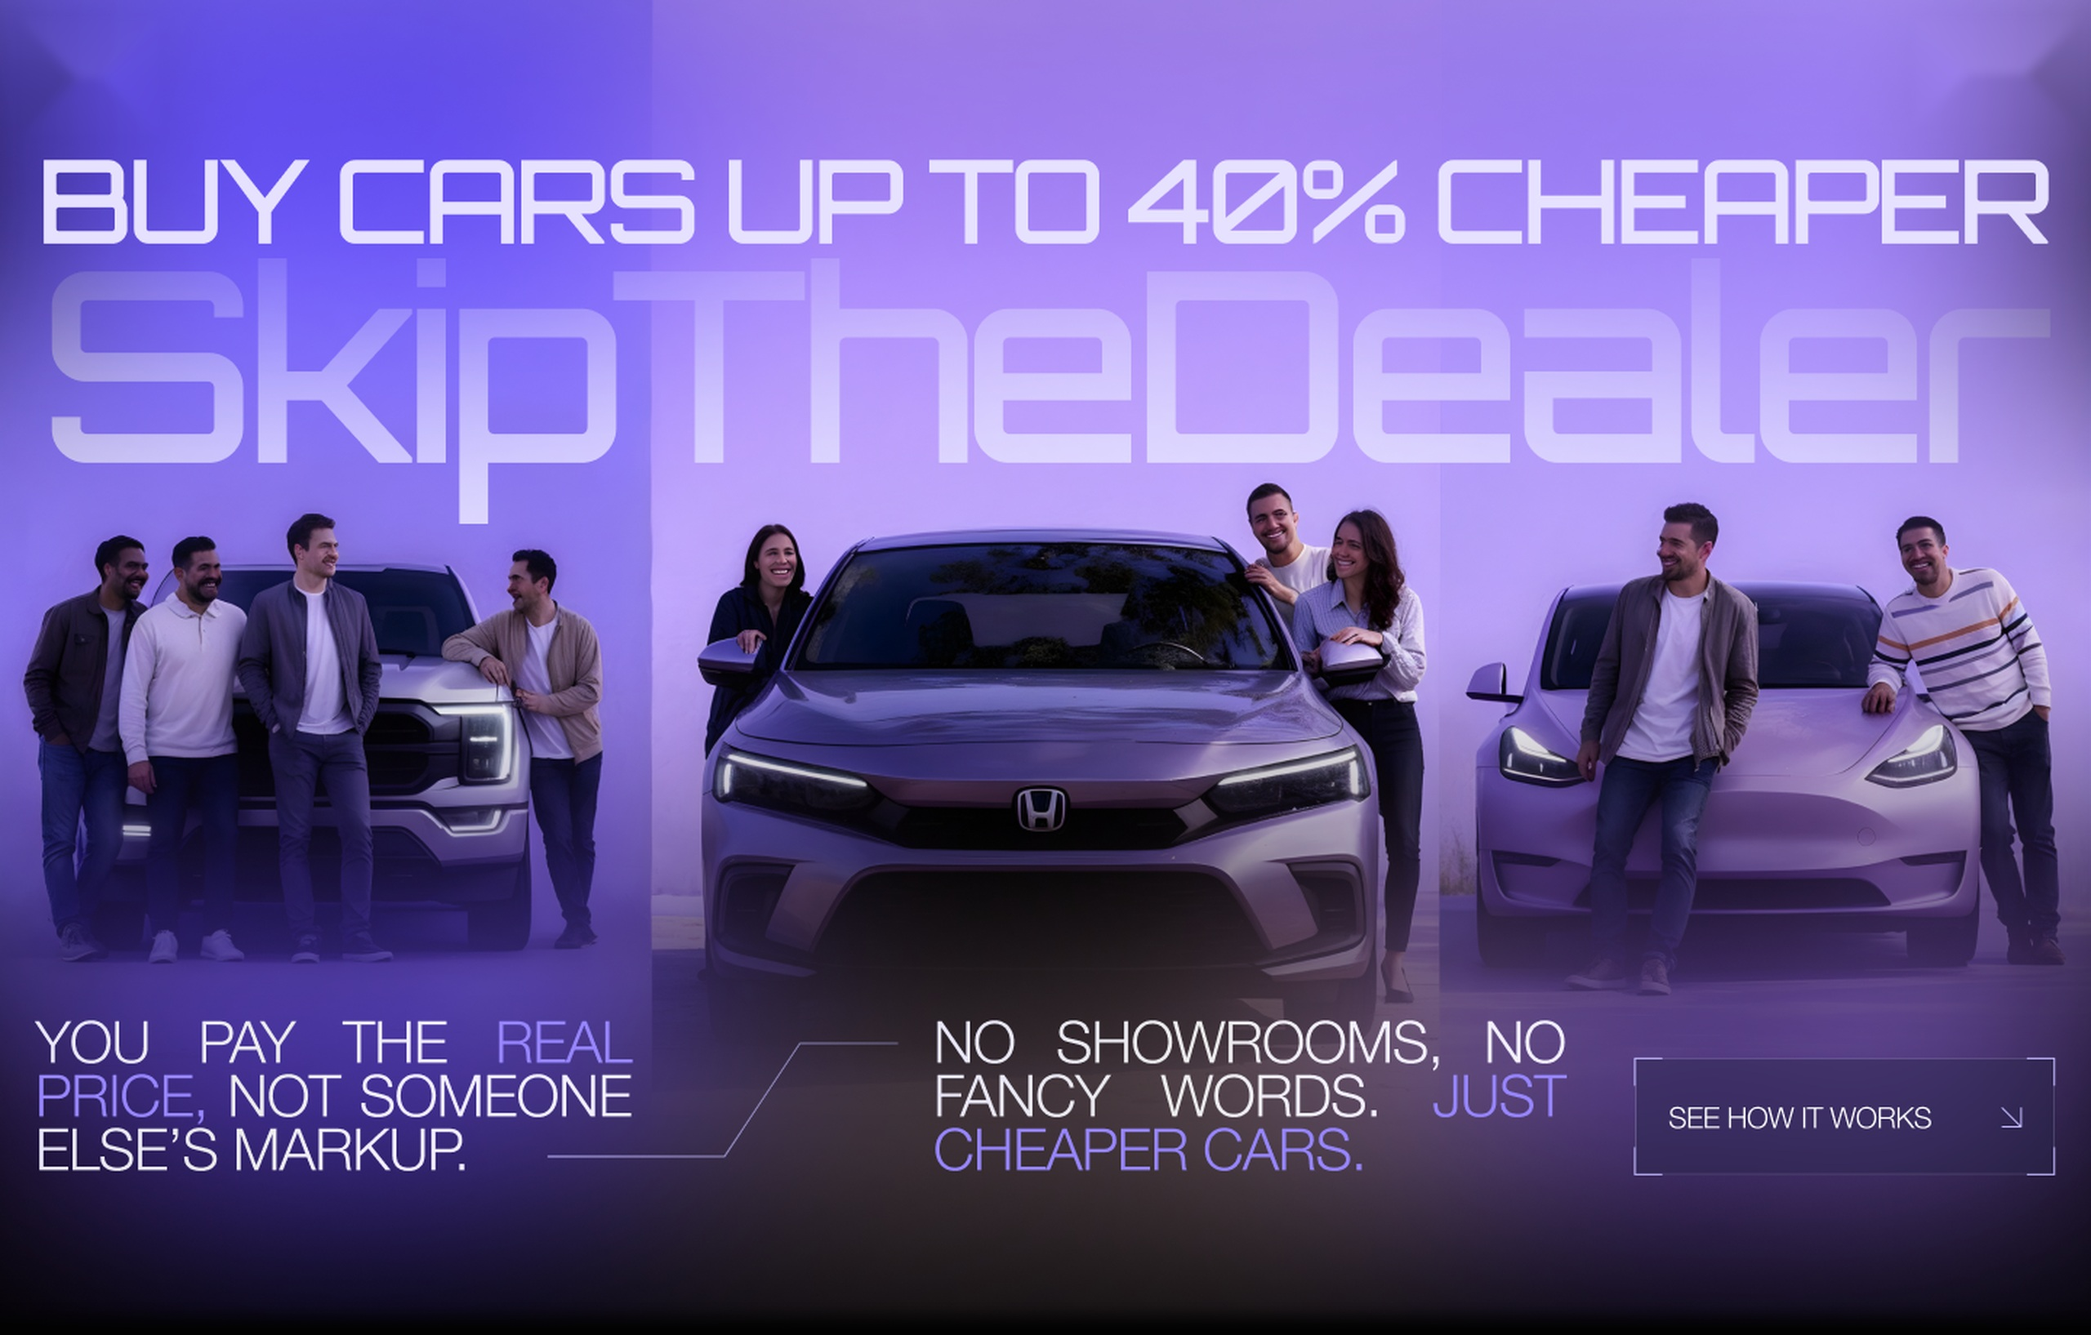
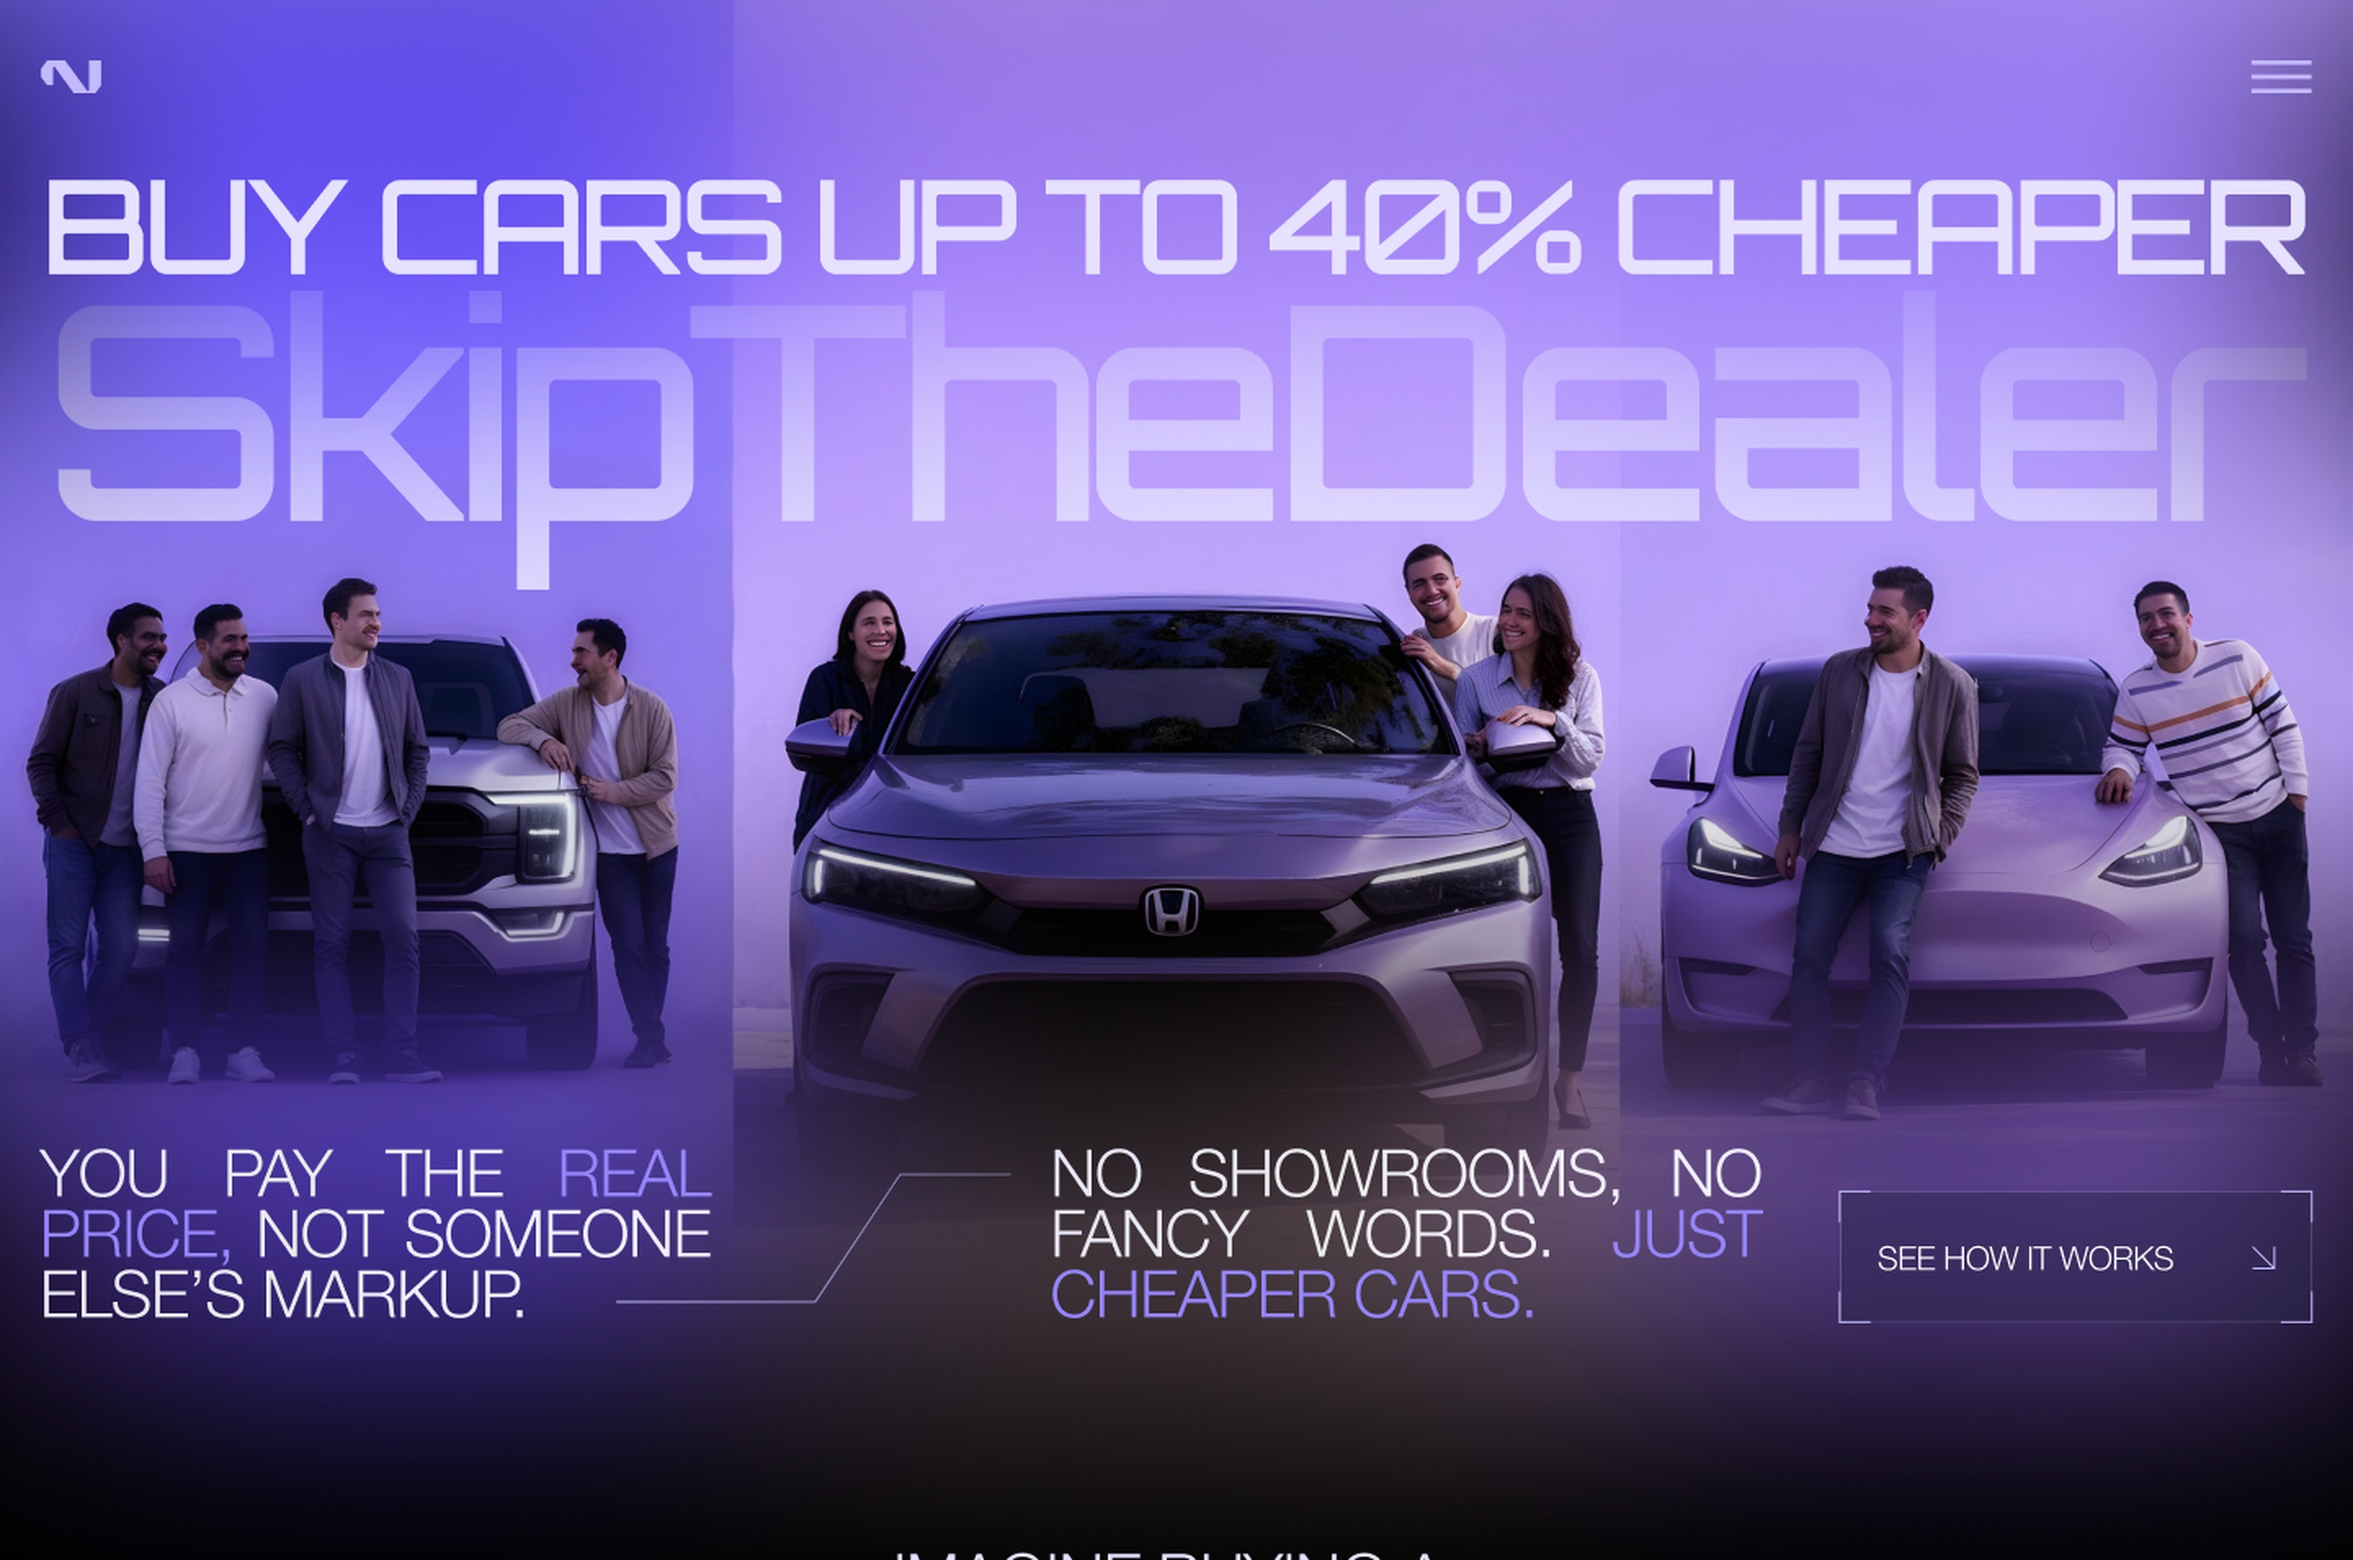
SkipTheDealer: 100% exact match to Figma screenshot (full-bleed width, zero side black bars, seamless organic transition to Scenarios)

diff --git a/assets/css/page-dealer.css b/assets/css/page-dealer.css
@@ -21,64 +21,52 @@
   text-shadow: 0 0 30px rgba(194, 185, 255, 0.7);
 }
 
-/* 1. HERO — VIEWPORT-ADAPTIVE ELEGANT SCALE (Exact Figma composition) */
+/* 1. HERO — EXACT FIGMA 1:1 REPRODUCTION (Full-width, seamless bottom transition) */
 .dealer-hero {
   position: relative;
   width: 100%;
-  height: clamp(480px, 75vh, 760px);
-  max-height: 760px;
   background-color: #020202;
-  overflow: hidden;
   box-sizing: border-box;
-  display: flex;
-  justify-content: center;
-  align-items: flex-start;
 }
 
 .dealer-hero__board {
   position: relative;
-  height: 100%;
-  width: auto;
-  aspect-ratio: 1440 / 810;
-  max-width: 100vw;
+  width: 100%;
   margin: 0 auto;
 }
 
 .dealer-hero__board-img {
   width: 100%;
-  height: 100%;
+  height: auto;
   display: block;
-  object-fit: contain;
-  object-position: center top;
 }
 
 .dealer-hero__mob {
   display: none !important;
 }
 
-.dealer-hero__cta-hitarea.dealer-hero__cta-hitarea {
+.dealer-hero__cta-hitarea {
   position: absolute;
   left: 78.194%;
-  top: 90.0%;
+  top: 76.33%;
   width: 20.069%;
-  height: 9.876%;
+  height: 8.38%;
   z-index: 10;
   cursor: pointer;
   border-radius: 2px;
   transition: background 0.3s ease, box-shadow 0.3s ease;
 }
 
-/* 2. SCENARIOS — SEAMLESS SOFT AMBIENT TRANSITION */
+/* 2. SCENARIOS — SEAMLESS CONTINUATION */
 .dealer-scenarios {
   position: relative;
   width: 100%;
-  padding: 10px 0 100px;
+  padding: 16px 0 100px;
   background-color: #020202;
-  background-image: radial-gradient(1000px 450px at 50% 0%, rgba(83, 60, 231, 0.22) 0%, rgba(42, 31, 104, 0.1) 50%, transparent 80%);
   overflow: hidden;
 }
 
-.dealer-scenarios__container.dealer-scenarios__container {
+.dealer-scenarios__container.dealer-scenarios__container.dealer-scenarios__container.dealer-scenarios__container {
   max-width: 1440px;
   margin: 0 auto;
   padding: 0 24px;
